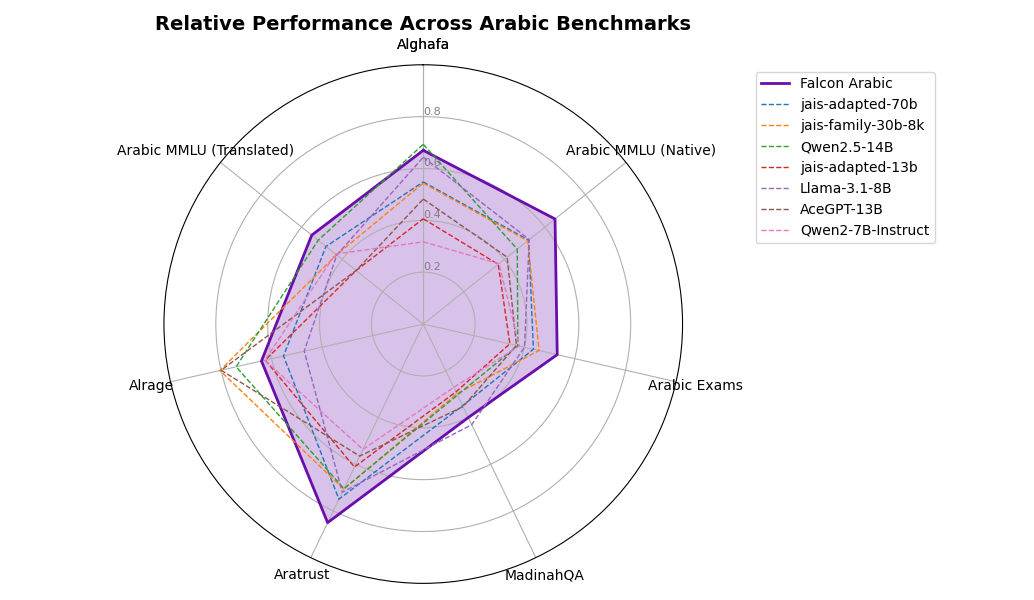
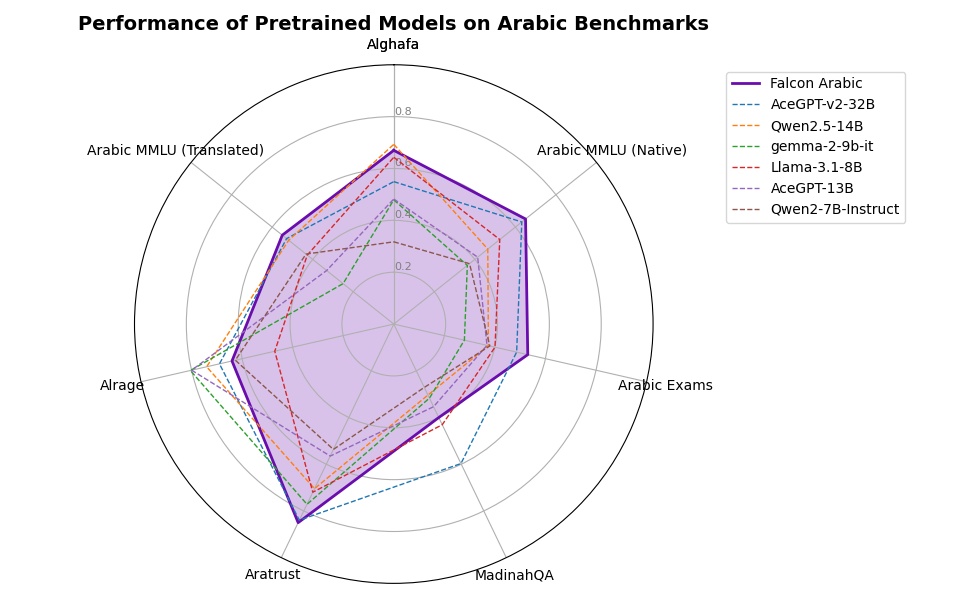
colors

diff --git a/assets/css/extended/custom.css b/assets/css/extended/custom.css
@@ -10,3 +10,6 @@
     -webkit-hyphens: auto;
     -moz-hyphens: auto;
 }
+.custom-table tbody tr:nth-last-child(2) {
+  background-color: rgba(176, 136, 255, 0.5); /* light purple */
+}

diff --git a/content/blog/falcon-arabic/index.md b/content/blog/falcon-arabic/index.md
@@ -81,17 +81,16 @@ The core challenge was adapting [Falcon 3-7B](https://huggingface.co/tiiuae/Falc
 With the tokenizer and embeddings in place, we began **continuous pretraining** on high-quality, **100% native Arabic datasets**, avoiding the use of machine-translated content to minimize cultural bias and preserve linguistic authenticity. Training followed a **multi-stage curriculum**: early stages focused on **general knowledge and dialect-rich Arabic content** to stabilize the model and reinforce logical capabilities, while later phases emphasized **math, code, and reasoning**. The result is a model that not only speaks Arabic fluently across dialects, but also retains Falcon’s multilingual and reasoning strengths pushing the boundaries for Arabic-first AI.
 
 
-### Falcon-Arabic-7B-Base Avg
-{{< barplot_vertical id="general-plt" highlight="Falcon-Arabic-7B-Base" ymin="0.40" ymax="0.7" ylabel="Score %" >}}
+### Falcon-Arabic-7B-Base Average
+{{< barplot_vertical id="pretrained-avg" highlight="Falcon-Arabic-7B-Base" ymin="0.40" ymax="0.7" ylabel="Score %" >}}
 [
-    {"category": "avg", "model": "jais-adapted-70b", "value": 0.5194},
-    {"category": "avg", "model": "jais-family-30b-8k", "value": 0.5363},
-    {"category": "avg", "model": "Qwen2.5-14B", "value": 0.5426},
-    {"category": "avg", "model": "AceGPT-13B", "value": 0.4721},
-    {"category": "avg", "model": "jais-adapted-13b", "value": 0.4253},
-    {"category": "avg", "model": "Llama-3.1-8B", "value": 0.5164},
-    {"category": "avg", "model": "Qwen2.5-7B", "value": 0.41969999999999996},
-    {"category": "avg", "model": "Falcon-Arabic-7B-Base", "value": 0.6257}
+    {"category": "Average", "model": "AceGPT-v2-32B", "value": 0.6174},
+    {"category": "Average", "model": "Qwen2.5-14B", "value": 0.5426},
+    {"category": "Average", "model": "AceGPT-13B", "value": 0.4721},
+    {"category": "Average", "model": "gemma-2-9b-it", "value": 0.4664},
+    {"category": "Average", "model": "Llama-3.1-8B", "value": 0.5164},
+    {"category": "Average", "model": "Qwen2.5-7B", "value": 0.41969999999999996},
+    {"category": "Average", "model": "Falcon-Arabic-7B-Base", "value": 0.6257}
 ]
 {{< /barplot_vertical >}}
 
@@ -99,82 +98,77 @@ With the tokenizer and embeddings in place, we began **continuous pretraining** 
 
 We evaluated Falcon-Arabic on **[OALL v2](https://huggingface.co/spaces/OALL/Open-Arabic-LLM-Leaderboard)**, the leading benchmark for Arabic language models. It includes six multiple-choice tasks such as Arabic MMLU (native and translated), Arabic Exams, Alghafa, MadinahQA, Aratrust and one generative benchmark, Alrage. **Falcon-Arabic outperforms all existing Arabic LLMs in its size range and even surpasses models up to 4× larger**. It leads in key benchmarks like Arabic MMLU, Exams, MadinahQA, and Aratrust, setting a new standard for Arabic-first language models. 
 
-### Falcon-Arabic-7B-Base Details
 
-{{< barplot_vertical id="general-plt" highlight="Falcon-Arabic-7B-Base" ymin="0" ymax="0.95" ylabel="Score %" >}}
+
+{{< barplot_vertical id="pretrained-detailed" highlight="Falcon-Arabic-7B-Base" ymin="0.2" ymax="0.9" ylabel="Score %" >}}
 [
-    {"category": "ALGhafa", "model": "jais-adapted-70b", "value": 0.5482},
-    {"category": "ALGhafa", "model": "jais-family-30b-8k", "value": 0.5434},
+    {"category": "ALGhafa", "model": "AceGPT-v2-32B", "value": 0.5493},
     {"category": "ALGhafa", "model": "Qwen2.5-14B", "value": 0.6931999999999999},
     {"category": "ALGhafa", "model": "AceGPT-13B", "value": 0.48229999999999995},
-    {"category": "ALGhafa", "model": "jais-adapted-13b", "value": 0.40619999999999995},
+    {"category": "ALGhafa", "model": "gemma-2-9b-it", "value": 0.4792},
     {"category": "ALGhafa", "model": "Llama-3.1-8B", "value": 0.6434000000000001},
     {"category": "ALGhafa", "model": "Qwen2.5-7B", "value": 0.3172},
     {"category": "ALGhafa", "model": "Falcon-Arabic-7B-Base", "value": 0.67},
-    {"category": "ArabicMMLU", "model": "jais-adapted-70b", "value": 0.5196999999999999},
-    {"category": "ArabicMMLU", "model": "jais-family-30b-8k", "value": 0.5153},
+    {"category": "ArabicMMLU", "model": "AceGPT-v2-32B", "value": 0.6315},
     {"category": "ArabicMMLU", "model": "Qwen2.5-14B", "value": 0.4637},
     {"category": "ArabicMMLU", "model": "AceGPT-13B", "value": 0.4138},
-    {"category": "ArabicMMLU", "model": "jais-adapted-13b", "value": 0.3697},
+    {"category": "ArabicMMLU", "model": "gemma-2-9b-it", "value": 0.3628},
     {"category": "ArabicMMLU", "model": "Llama-3.1-8B", "value": 0.5228},
     {"category": "ArabicMMLU", "model": "Qwen2.5-7B", "value": 0.3736},
     {"category": "ArabicMMLU", "model": "Falcon-Arabic-7B-Base", "value": 0.65},
-    {"category": "Exams", "model": "jais-adapted-70b", "value": 0.43579999999999997},
-    {"category": "Exams", "model": "jais-family-30b-8k", "value": 0.4581},
+    {"category": "Exams", "model": "AceGPT-v2-32B", "value": 0.486},
     {"category": "Exams", "model": "Qwen2.5-14B", "value": 0.3743},
     {"category": "Exams", "model": "AceGPT-13B", "value": 0.36869999999999997},
-    {"category": "Exams", "model": "jais-adapted-13b", "value": 0.34259999999999996},
+    {"category": "Exams", "model": "gemma-2-9b-it", "value": 0.2793},
     {"category": "Exams", "model": "Llama-3.1-8B", "value": 0.4004},
     {"category": "Exams", "model": "Qwen2.5-7B", "value": 0.3799},
     {"category": "Exams", "model": "Falcon-Arabic-7B-Base", "value": 0.53},
-    {"category": "MadinahQA", "model": "jais-adapted-70b", "value": 0.3496},
-    {"category": "MadinahQA", "model": "jais-family-30b-8k", "value": 0.2982},
+    {"category": "MadinahQA", "model": "AceGPT-v2-32B", "value": 0.5971},
     {"category": "MadinahQA", "model": "Qwen2.5-14B", "value": 0.3038},
     {"category": "MadinahQA", "model": "AceGPT-13B", "value": 0.35369999999999996},
-    {"category": "MadinahQA", "model": "jais-adapted-13b", "value": 0.2904},
+    {"category": "MadinahQA", "model": "gemma-2-9b-it", "value": 0.317},
     {"category": "MadinahQA", "model": "Llama-3.1-8B", "value": 0.43079999999999996},
     {"category": "MadinahQA", "model": "Qwen2.5-7B", "value": 0.2711},
     {"category": "MadinahQA", "model": "Falcon-Arabic-7B-Base", "value": 0.49},
-    {"category": "AraTrust", "model": "jais-adapted-70b", "value": 0.7497},
-    {"category": "AraTrust", "model": "jais-family-30b-8k", "value": 0.7066},
+    {"category": "AraTrust", "model": "AceGPT-v2-32B", "value": 0.8396},
     {"category": "AraTrust", "model": "Qwen2.5-14B", "value": 0.7045999999999999},
     {"category": "AraTrust", "model": "AceGPT-13B", "value": 0.5650999999999999},
-    {"category": "AraTrust", "model": "jais-adapted-13b", "value": 0.6118},
+    {"category": "AraTrust", "model": "gemma-2-9b-it", "value": 0.7715},
     {"category": "AraTrust", "model": "Llama-3.1-8B", "value": 0.7198},
     {"category": "AraTrust", "model": "Qwen2.5-7B", "value": 0.5366},
     {"category": "AraTrust", "model": "Falcon-Arabic-7B-Base", "value": 0.85},
-    {"category": "ALRAGE", "model": "jais-adapted-70b", "value": 0.5528},
-    {"category": "ALRAGE", "model": "jais-family-30b-8k", "value": 0.8047},
+    {"category": "ALRAGE", "model": "AceGPT-v2-32B", "value": 0.6896},
     {"category": "ALRAGE", "model": "Qwen2.5-14B", "value": 0.7403},
     {"category": "ALRAGE", "model": "AceGPT-13B", "value": 0.7996},
-    {"category": "ALRAGE", "model": "jais-adapted-13b", "value": 0.6253},
+    {"category": "ALRAGE", "model": "gemma-2-9b-it", "value": 0.8047},
     {"category": "ALRAGE", "model": "Llama-3.1-8B", "value": 0.4708},
     {"category": "ALRAGE", "model": "Qwen2.5-7B", "value": 0.6268},
     {"category": "ALRAGE", "model": "Falcon-Arabic-7B-Base", "value": 0.64},
-    {"category": "ArbMMLU-HT", "model": "jais-adapted-70b", "value": 0.48},
-    {"category": "ArbMMLU-HT", "model": "jais-family-30b-8k", "value": 0.428},
+    {"category": "ArbMMLU-HT", "model": "AceGPT-v2-32B", "value": 0.5287},
     {"category": "ArbMMLU-HT", "model": "Qwen2.5-14B", "value": 0.5184000000000001},
     {"category": "ArbMMLU-HT", "model": "AceGPT-13B", "value": 0.3212},
-    {"category": "ArbMMLU-HT", "model": "jais-adapted-13b", "value": 0.3312},
+    {"category": "ArbMMLU-HT", "model": "gemma-2-9b-it", "value": 0.2501},
     {"category": "ArbMMLU-HT", "model": "Llama-3.1-8B", "value": 0.4267},
     {"category": "ArbMMLU-HT", "model": "Qwen2.5-7B", "value": 0.433},
     {"category": "ArbMMLU-HT", "model": "Falcon-Arabic-7B-Base", "value": 0.55}
 ]
 {{< /barplot_vertical >}}
 
+### Comparison Table of Pretrained Models
 <!-- <details>
 <summary class="bold"> Detailed results: </summary> -->
 
-| Model   | Avg    | ALGhafa | ArabicMMLU | Exams | MadinahQA | AraTrust | ALRAGE | ArbMMLU-HT |
+{{< rawhtml >}}<div class="custom-table"> {{< /rawhtml >}}
+| Model   | Average    | ALGhafa | ArabicMMLU | Exams | MadinahQA | AraTrust | ALRAGE | ArbMMLU-HT |
 |---------|---------|------------|-------|-----------|----------|--------|------------|--------|
-| jais-adapted-70b | 51.94 | 54.82  | 51.97     | 43.58| 34.96    | 74.97   | 55.28 | 48.00     |
-| jais-family-30b-8k | 53.63 | 54.34  | 51.53     | 45.81| 29.82    | 70.66   | 80.47 | 42.80     |
+| AceGPT-v2-32B | 61.74 | 54.93  | 63.15     | 48.6| 59.71   | 83.96   | 68.96 | 52.87    |
 | Qwen2.5-14B | 54.26 | 69.32  | 46.37     | 37.43| 30.38    | 70.46   | 74.03 | 51.84     |
 | AceGPT-13B | 47.21 | 48.23  | 41.38     | 36.87| 35.37    | 56.51   | 79.96 | 32.12     |
-| jais-adapted-13b | 42.53 | 40.62  | 36.97     | 34.26| 29.04    | 61.18   | 62.53 | 33.12     |
+| gemma-2-9b-it | 46.64 | 47.92  | 36.28     | 27.93| 31.7    | 77.15   | 80.47 | 25.01     |
 | Llama-3.1-8B | 51.64 | 64.34  | 52.28     | 40.04| 43.08    | 71.98   | 47.08 | 42.67     |
 | Qwen2.5-7B | 41.97 | 31.72  | 37.36     | 37.99| 27.11    | 53.66   | 62.68 | 43.30     |
 | **Falcon-Arabic-7B-Base** | 62.57 | 67.17  | 64.85     | 52.89| 48.79    | 85.36   | 63.71 | 55.25     |
+{{< rawhtml >}}</div> {{< /rawhtml >}}
 
 <!-- </details> -->
 
@@ -187,78 +181,62 @@ To further enhance alignment, we applied **Direct Preference Optimization (DPO)*
 As shown in the results plots, **Falcon-Arabic Chat leads the pack**, outperforming all other SFT-aligned Arabic LLMs in its size class and even models significantly larger across multiple benchmarks. The model demonstrates strong performance in both instruction following and open-ended dialogue, setting a new standard for Arabic conversational AI.
 
 
-### Falcon-Arabic-7B-Chat Avg
+### Falcon-Arabic-7B-Chat Average
 
-{{< barplot_vertical id="general-plt" highlight="Falcon-Arabic-7B-Chat" ymin="0.56" ymax="0.7" ylabel="Score %" >}}
+{{< barplot_vertical id="chat-avg" highlight="Falcon-Arabic-7B-Chat" ymin="0.56" ymax="0.7" ylabel="Score %" >}}
 [
-    {"category": "avg", "model": "aya-expanse-32b", "value": 0.6717},
-    {"category": "avg", "model": "c4ai-command-r7b-arabic-02-2025", "value": 0.6707},
-    {"category": "avg", "model": "jais-family-30b-16k-chat", "value": 0.6543000000000001},
-    {"category": "avg", "model": "jais-adapted-13b-chat", "value": 0.5808},
-    {"category": "avg", "model": "ALLaM-7B-Instruct-preview", "value": 0.6525},
-    {"category": "avg", "model": "Yehia-7B-preview", "value": 0.6568},
-    {"category": "avg", "model": "Qwen2-7B-Instruct", "value": 0.6361},
-    {"category": "avg", "model": "Falcon-Arabic-7B-Chat", "value": 0.683}
+    {"category": "Average", "model": "aya-expanse-32b", "value": 0.6717},
+    {"category": "Average", "model": "c4ai-command-r7b-arabic-02-2025", "value": 0.6707},
+    {"category": "Average", "model": "ALLaM-7B-Instruct-preview", "value": 0.6525},
+    {"category": "Average", "model": "Yehia-7B-preview", "value": 0.6568},
+    {"category": "Average", "model": "Qwen2-7B-Instruct", "value": 0.6361},
+    {"category": "Average", "model": "Falcon-Arabic-7B-Chat", "value": 0.683}
 ]
 {{< /barplot_vertical >}}
 
 
 ### Falcon-Arabic-7B-Chat Details
 
-{{< barplot_vertical id="general-plt" highlight="Falcon-Arabic-7B-Chat" ymin="0" ymax="0.95" ylabel="Score %" >}}
+{{< barplot_vertical id="chat-detailed" highlight="Falcon-Arabic-7B-Chat" ymin="0" ymax="0.95" ylabel="Score %" >}}
 [
     {"category": "ALGhafa", "model": "aya-expanse-32b", "value": 0.7761},
     {"category": "ALGhafa", "model": "c4ai-command-r7b-arabic-02-2025", "value": 0.7484000000000001},
-    {"category": "ALGhafa", "model": "jais-family-30b-16k-chat", "value": 0.7121999999999999},
-    {"category": "ALGhafa", "model": "jais-adapted-13b-chat", "value": 0.6728000000000001},
     {"category": "ALGhafa", "model": "ALLaM-7B-Instruct-preview", "value": 0.6949},
     {"category": "ALGhafa", "model": "Yehia-7B-preview", "value": 0.7081000000000001},
     {"category": "ALGhafa", "model": "Qwen2-7B-Instruct", "value": 0.7323999999999999},
     {"category": "ALGhafa", "model": "Falcon-Arabic-7B-Chat", "value": 0.7237},
     {"category": "ArabicMMLU", "model": "aya-expanse-32b", "value": 0.6063000000000001},
     {"category": "ArabicMMLU", "model": "c4ai-command-r7b-arabic-02-2025", "value": 0.5934},
-    {"category": "ArabicMMLU", "model": "jais-family-30b-16k-chat", "value": 0.6122},
-    {"category": "ArabicMMLU", "model": "jais-adapted-13b-chat", "value": 0.5423},
     {"category": "ArabicMMLU", "model": "ALLaM-7B-Instruct-preview", "value": 0.649},
     {"category": "ArabicMMLU", "model": "Yehia-7B-preview", "value": 0.649},
     {"category": "ArabicMMLU", "model": "Qwen2-7B-Instruct", "value": 0.6001},
     {"category": "ArabicMMLU", "model": "Falcon-Arabic-7B-Chat", "value": 0.6827},
     {"category": "Exams", "model": "aya-expanse-32b", "value": 0.5102},
     {"category": "Exams", "model": "c4ai-command-r7b-arabic-02-2025", "value": 0.6498999999999999},
-    {"category": "Exams", "model": "jais-family-30b-16k-chat", "value": 0.5009},
-    {"category": "Exams", "model": "jais-adapted-13b-chat", "value": 0.473},
     {"category": "Exams", "model": "ALLaM-7B-Instruct-preview", "value": 0.5158},
     {"category": "Exams", "model": "Yehia-7B-preview", "value": 0.5214},
     {"category": "Exams", "model": "Qwen2-7B-Instruct", "value": 0.473},
     {"category": "Exams", "model": "Falcon-Arabic-7B-Chat", "value": 0.5345},
     {"category": "MadinahQA", "model": "aya-expanse-32b", "value": 0.5345},
     {"category": "MadinahQA", "model": "c4ai-command-r7b-arabic-02-2025", "value": 0.6384000000000001},
-    {"category": "MadinahQA", "model": "jais-family-30b-16k-chat", "value": 0.6626000000000001},
-    {"category": "MadinahQA", "model": "jais-adapted-13b-chat", "value": 0.442},
     {"category": "MadinahQA", "model": "ALLaM-7B-Instruct-preview", "value": 0.5424},
     {"category": "MadinahQA", "model": "Yehia-7B-preview", "value": 0.5437},
     {"category": "MadinahQA", "model": "Qwen2-7B-Instruct", "value": 0.595},
     {"category": "MadinahQA", "model": "Falcon-Arabic-7B-Chat", "value": 0.7363},
     {"category": "AraTrust", "model": "aya-expanse-32b", "value": 0.89},
     {"category": "AraTrust", "model": "c4ai-command-r7b-arabic-02-2025", "value": 0.8047},
-    {"category": "AraTrust", "model": "jais-family-30b-16k-chat", "value": 0.8157},
-    {"category": "AraTrust", "model": "jais-adapted-13b-chat", "value": 0.7968000000000001},
     {"category": "AraTrust", "model": "ALLaM-7B-Instruct-preview", "value": 0.8693000000000001},
     {"category": "AraTrust", "model": "Yehia-7B-preview", "value": 0.8748999999999999},
     {"category": "AraTrust", "model": "Qwen2-7B-Instruct", "value": 0.8277},
     {"category": "AraTrust", "model": "Falcon-Arabic-7B-Chat", "value": 0.8262},
     {"category": "ALRAGE", "model": "aya-expanse-32b", "value": 0.7964},
     {"category": "ALRAGE", "model": "c4ai-command-r7b-arabic-02-2025", "value": 0.759},
-    {"category": "ALRAGE", "model": "jais-family-30b-16k-chat", "value": 0.7495},
-    {"category": "ALRAGE", "model": "jais-adapted-13b-chat", "value": 0.6840999999999999},
     {"category": "ALRAGE", "model": "ALLaM-7B-Instruct-preview", "value": 0.7681},
     {"category": "ALRAGE", "model": "Yehia-7B-preview", "value": 0.7664},
     {"category": "ALRAGE", "model": "Qwen2-7B-Instruct", "value": 0.7112999999999999},
     {"category": "ALRAGE", "model": "Falcon-Arabic-7B-Chat", "value": 0.7226},
     {"category": "ArbMMLU-HT", "model": "aya-expanse-32b", "value": 0.5886},
     {"category": "ArbMMLU-HT", "model": "c4ai-command-r7b-arabic-02-2025", "value": 0.5014},
-    {"category": "ArbMMLU-HT", "model": "jais-family-30b-16k-chat", "value": 0.5273},
-    {"category": "ArbMMLU-HT", "model": "jais-adapted-13b-chat", "value": 0.4545},
     {"category": "ArbMMLU-HT", "model": "ALLaM-7B-Instruct-preview", "value": 0.5281},
     {"category": "ArbMMLU-HT", "model": "Yehia-7B-preview", "value": 0.534},
     {"category": "ArbMMLU-HT", "model": "Qwen2-7B-Instruct", "value": 0.513},
@@ -266,20 +244,20 @@ As shown in the results plots, **Falcon-Arabic Chat leads the pack**, outperform
 ]
 {{< /barplot_vertical >}}
 
+### Comparison Table of Chat Models
+
 <!-- <details>
 <summary class="bold"> Detailed results: </summary> -->
-
-| Model                           |     avg |  ALGhafa |   ALRAGE |   AraTrust |   ArabicMMLU |   ArbMMLU-HT |   Exams |   MadinahQA |
+{{< rawhtml >}}<div class="custom-table"> {{< /rawhtml >}}
+| Model                           |     Average |  ALGhafa |   ALRAGE |   AraTrust |   ArabicMMLU |   ArbMMLU-HT |   Exams |   MadinahQA |
 |:--------------------------------|----------:|---------:|-----------:|-------------:|-------------:|--------:|------------:|-------:|
 | aya-expanse-32b                 | 67.17 |    77.61 |   79.64 |     89.00 |       60.63 |       58.86 |  51.02 |      53.45 |
 | c4ai-command-r7b-arabic-02-2025 | 67.07 |    74.84 |   75.90 |     80.47 |       59.34 |       50.14 |  64.99 |      63.84 |
-| jais-family-30b-16k-chat        | 65.43 |    71.22 |   74.95 |     81.57 |       61.22 |       52.73 |  50.09 |      66.26 |
-| jais-adapted-13b-chat           | 58.08 |    67.28 |   68.41 |     79.68 |       54.23 |       45.45 |  47.30 |      44.20 |
 | ALLaM-7B-Instruct-preview       | 65.25 |    69.49 |   76.81 |     86.93 |       64.90 |       52.81 |  51.58 |      54.24 |
 | Yehia-7B-preview                | 65.68 |    70.81 |   76.64 |     87.49 |       64.90 |       53.40 |  52.14 |      54.37 |
 | Qwen2-7B-Instruct               | 63.61 |    73.24 |   71.13 |     82.77 |       60.01 |       51.30 |  47.30 |      59.50 |
 | **Falcon-Arabic-7B-Chat**       | 68.30 |    72.37 |   72.26 |     82.62 |       68.27 |       55.47 |  53.45 |      73.63 |
-
+{{< rawhtml >}}</div> {{< /rawhtml >}}
 <!-- </details> -->
 
 ## 🔓 Unlocking the Potential of Arabic AI
